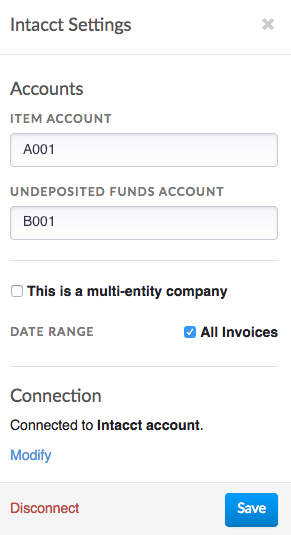
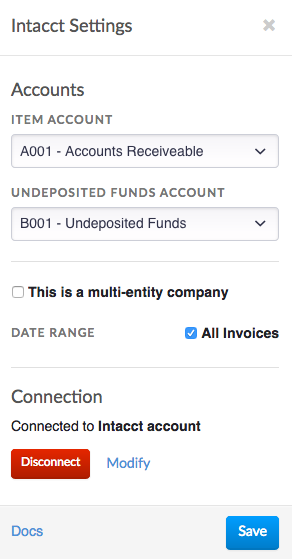
updated intacct connection settings

diff --git a/accounting/intacct.md b/accounting/intacct.md
@@ -76,9 +76,9 @@ Now you can configure the accounting sync in order to tell Invoiced how to map t
 
    [![Intacct Integration Settings](../img/intacct-integration-settings.png)](../img/intacct-integration-settings.png)
 
-2. Enter in the item account label from your G/L on Intacct. This is the default account where new line items are mapped.
+2. Select the item account from your G/L on Intacct. This is the default account where new line items are mapped.
 
-3. Enter in the undeposited funds account label from your G/L on Intacct. This is where payments received through Invoiced will be mapped.
+3. Select the undeposited funds account label from your G/L on Intacct. This is where payments received through Invoiced will be mapped.
 
 4. You can optionally enter in a location ID and/or department ID if you are operating a multi-entity Intacct company.
 
